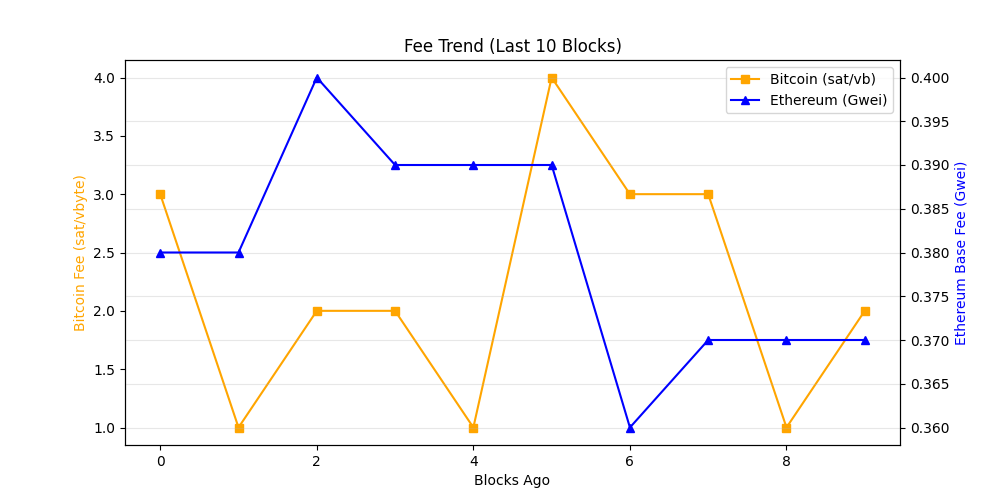
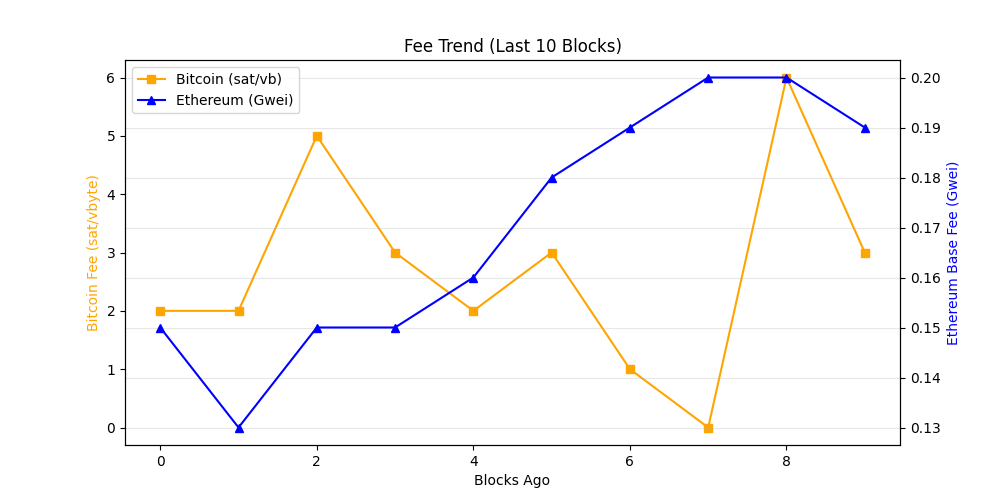
chore: update on-chain dashboard

diff --git a/README.md b/README.md
@@ -19,7 +19,7 @@ The README itself acts as the dashboard and is regenerated automatically on a 6 
 demonstrating a production-style, infrastructure-focused observability workflow rather
 than a traditional UI-driven approach.
 
-_Last updated: 2026-05-27 16:11 UTC_
+_Last updated: 2026-05-27 20:28 UTC_
 
 ## API Usage (GetBlock.io)
 - Calls used: **24**
@@ -27,8 +27,8 @@ _Last updated: 2026-05-27 16:11 UTC_
 ## Network Metrics
 | Chain | Block Height | TX Count | TPS (10 blk avg) | Block Util | Avg Fee |
 |------|-------------|----------|------------------|------------|---------|
-| Ethereum | 25187776 | 187 | 15.58 | 31.49% | 0.4 Gwei |
-| Bitcoin | 951277 | 3942 | 6.84 | 99.8% | N/A |
+| Ethereum | 25189059 | 177 | 14.75 | 31.51% | 0.2 Gwei |
+| Bitcoin | 951297 | 4550 | 25.28 | 99.8% | N/A |
 
 ## Visuals
 ### Transactions Trend
@@ -43,11 +43,11 @@ _Last updated: 2026-05-27 16:11 UTC_
 ## Whale Alerts (latest block)
 - Transaction hashes are truncated for readability.
 - Full hashes are available in `dashboards/metrics.json`
-- Bitcoin | 311.23 BTC | `8ba02e6efc58…`
-- Bitcoin | 2105.18 BTC | `e1536bd7195f…`
-- Bitcoin | 380.06 BTC | `e48151652e2e…`
-- Bitcoin | 103.79 BTC | `73c5144aba93…`
-- Bitcoin | 106.88 BTC | `af41a9c5fba1…`
+- Bitcoin | 124.32 BTC | `346e8a88d442…`
+- Bitcoin | 454.86 BTC | `38987de406e1…`
+- Bitcoin | 109.67 BTC | `17a577c76ce2…`
+- Bitcoin | 149.15 BTC | `290ef56142be…`
+- Bitcoin | 276.71 BTC | `890ca6b80beb…`
 
 ## Run locally
 
